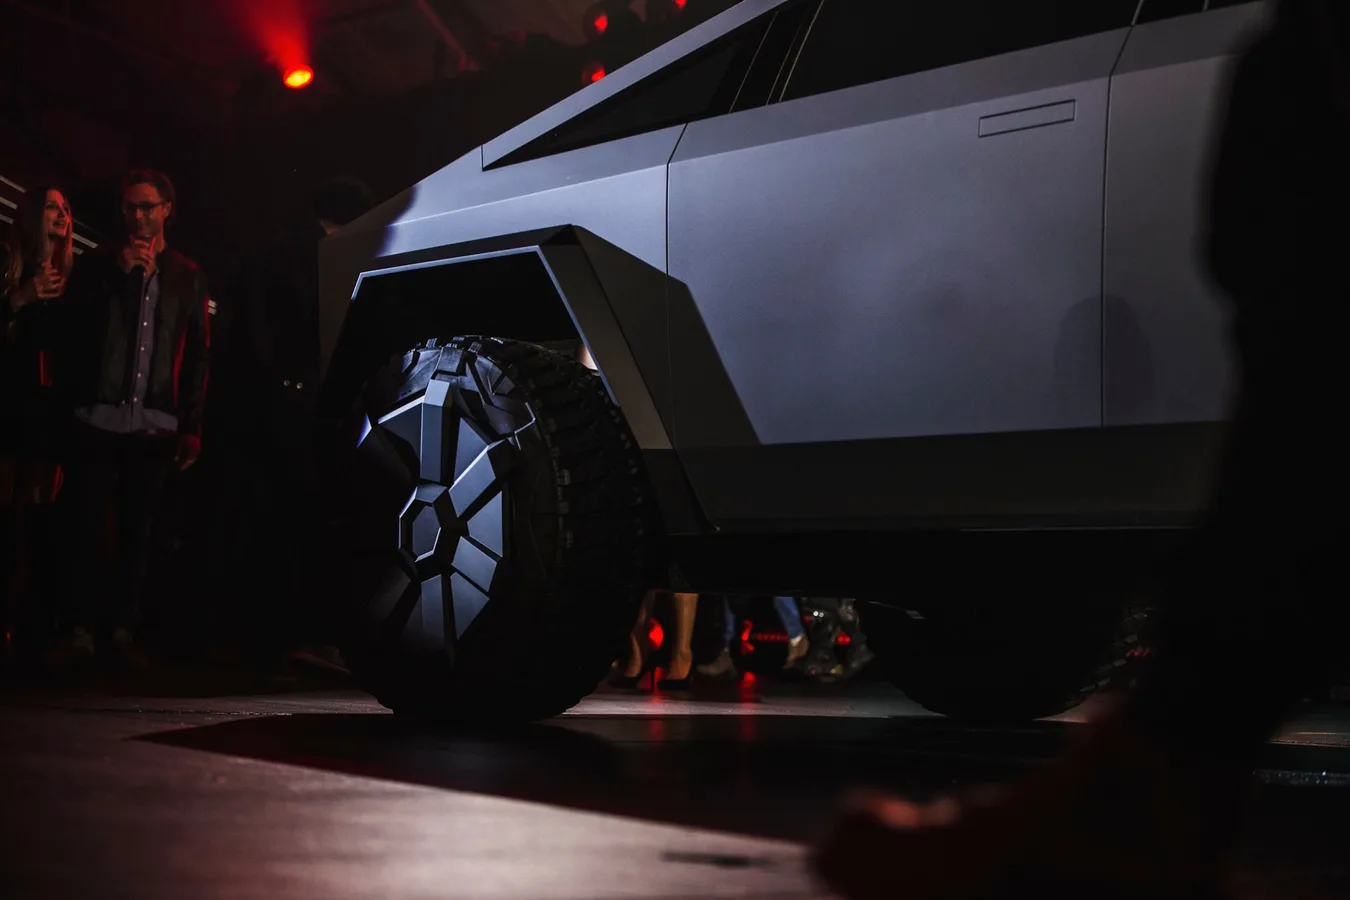
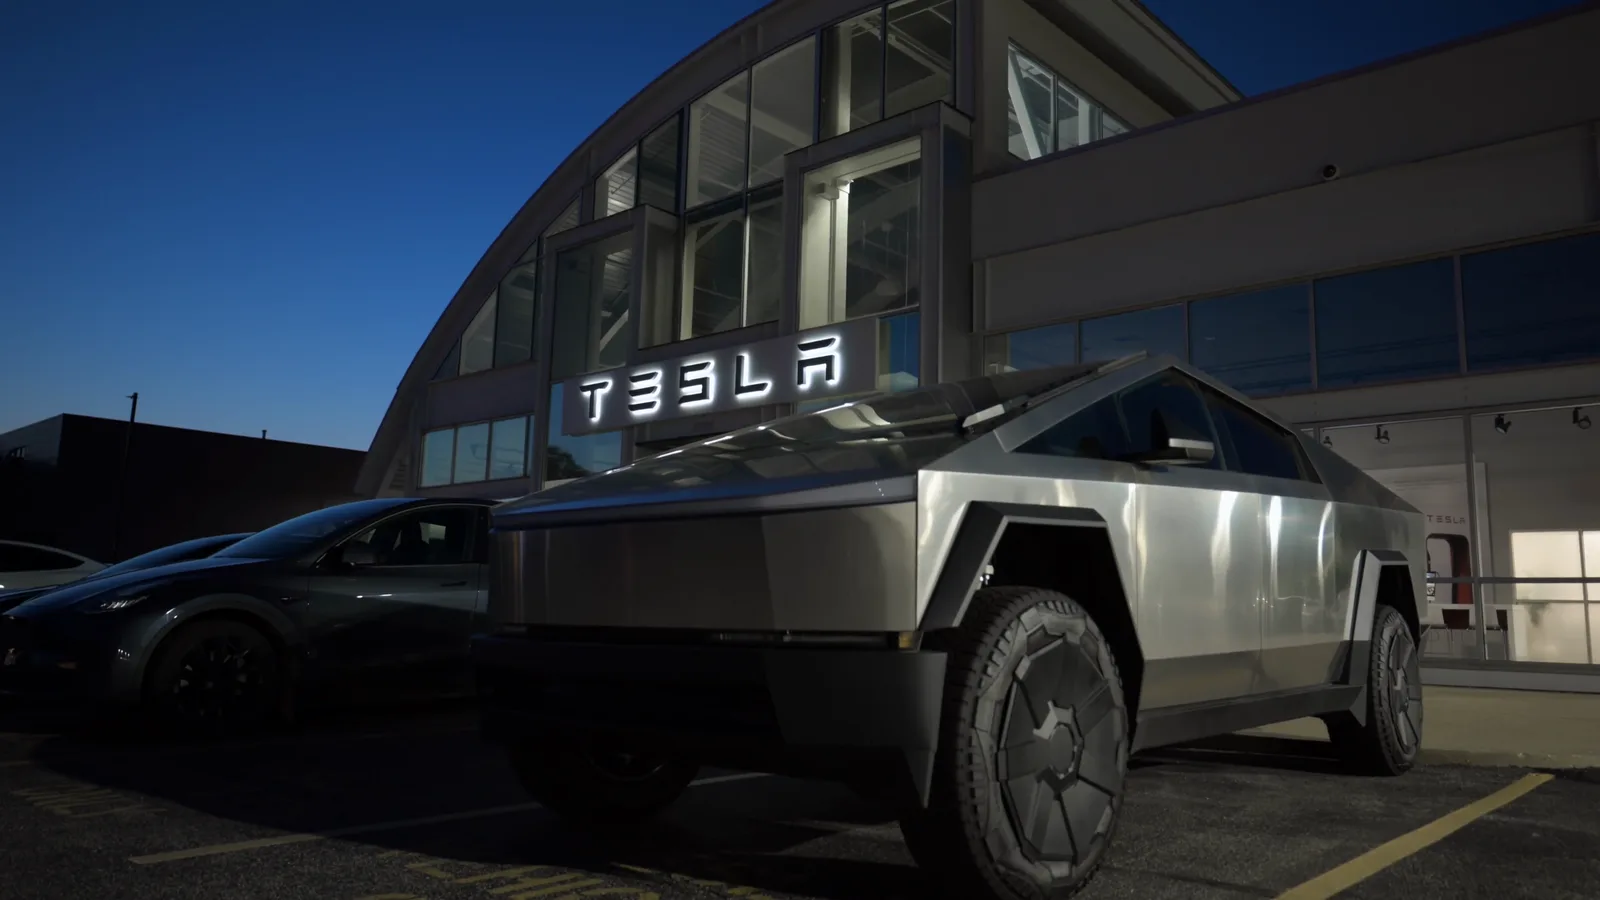
Add per-model hero videos for Tesla and Toyota/Ford hubs.
Convert user-provided 4K stock footage to lean VP9/H.264 loops with poster fallbacks for Model Y, Model 3, Cybertruck (knowledge figure), 4Runner, and Bronco. Wire a per-model video override map into the model hub hero and knowledge overview with reduced-motion poster fallback, relocate displaced 4Runner/Bronco hero photos into the body, and replace wrong Tesla card images with real frames plus honest CSV attribution.

diff --git a/lib/photos.ts b/lib/photos.ts
@@ -71,6 +71,61 @@ export const CHECK_ENGINE_HERO_VIDEO = {
   posterJpg: '/videos/check-engine-hero-poster.jpg',
 } as const;
 
+/** Shared shape for hero/figure video sources (poster stays LCP) */
+export type ModelVideoSources = {
+  webm: string;
+  mp4: string;
+  poster: string;
+  posterJpg: string;
+};
+
+/**
+ * Per-model hub hero video overrides, keyed by `${makeSlug}/${modelSlug}`.
+ * Mirrors the service heroVideo pattern — models not listed keep their photo hero.
+ */
+export const MODEL_HERO_VIDEOS: Record<string, ModelVideoSources> = {
+  'tesla/model-y': {
+    webm: '/videos/model-y-hero.webm',
+    mp4: '/videos/model-y-hero.mp4',
+    poster: '/videos/model-y-hero-poster.webp',
+    posterJpg: '/videos/model-y-hero-poster.jpg',
+  },
+  'tesla/model-3': {
+    webm: '/videos/model-3-hero.webm',
+    mp4: '/videos/model-3-hero.mp4',
+    poster: '/videos/model-3-hero-poster.webp',
+    posterJpg: '/videos/model-3-hero-poster.jpg',
+  },
+  'toyota/4runner': {
+    webm: '/videos/4runner-hero.webm',
+    mp4: '/videos/4runner-hero.mp4',
+    poster: '/videos/4runner-hero-poster.webp',
+    posterJpg: '/videos/4runner-hero-poster.jpg',
+  },
+  'ford/bronco': {
+    webm: '/videos/bronco-hero.webm',
+    mp4: '/videos/bronco-hero.mp4',
+    poster: '/videos/bronco-hero-poster.webp',
+    posterJpg: '/videos/bronco-hero-poster.jpg',
+  },
+};
+
+/** Per-model knowledge-overview figure video overrides, keyed by `${makeSlug}/${modelSlug}` */
+export const MODEL_KNOWLEDGE_VIDEOS: Record<string, ModelVideoSources> = {
+  'tesla/cybertruck': {
+    webm: '/videos/cybertruck-hero.webm',
+    mp4: '/videos/cybertruck-hero.mp4',
+    poster: '/videos/cybertruck-hero-poster.webp',
+    posterJpg: '/videos/cybertruck-hero-poster.jpg',
+  },
+};
+
+/**
+ * Models whose hero video displaced a photo the page should keep —
+ * the former hero photo relocates to the services section figure.
+ */
+export const MODEL_HERO_PHOTO_RELOCATED = new Set(['toyota/4runner', 'ford/bronco']);
+
 /** Full-bleed hero backgrounds — cap decoded width at 1920px for next/image */
 export const HERO_IMAGE_SIZES =
   '(max-width: 640px) 100vw, (max-width: 1200px) 100vw, 1920px';

diff --git a/app/components/ui/vehicles/ModelHubContent.tsx b/app/components/ui/vehicles/ModelHubContent.tsx
@@ -1,6 +1,7 @@
 'use client';
 
 import Link from 'next/link';
+import Image from 'next/image';
 import PhoneLink from '@/app/components/ui/PhoneLink';
 import PageHero from '@/app/components/ui/PageHero';
 import FadeIn from '@/app/components/ui/FadeIn';
@@ -15,6 +16,7 @@ import {
 } from '@/lib/i18n/vehicleCopy';
 import { localizeReliabilitySnapshot } from '@/lib/i18n/reliabilitySnapshotsEs';
 import type { ModelReliabilitySnapshot } from '@/lib/modelReliabilityNotes';
+import type { ModelVideoSources } from '@/lib/photos';
 import type { VehicleModel } from '@/lib/vehicleModels';
 
 type ModelHubContentProps = {
@@ -24,6 +26,10 @@ type ModelHubContentProps = {
   siblingModels: VehicleModel[];
   modelSnapshot: ModelReliabilitySnapshot | null;
   heroDescription: string;
+  /** Optional per-model hero video override — poster stays LCP; reduced motion keeps poster */
+  heroVideo?: ModelVideoSources | null;
+  /** Former hero photo, relocated below when a video takes over the hero */
+  relocatedHeroImage?: string | null;
 };
 
 export default function ModelHubContent({
@@ -33,6 +39,8 @@ export default function ModelHubContent({
   siblingModels,
   modelSnapshot,
   heroDescription,
+  heroVideo = null,
+  relocatedHeroImage = null,
 }: ModelHubContentProps) {
   const { lang } = useLanguage();
   const copy = vehicleCopy(lang).hub;
@@ -45,6 +53,10 @@ export default function ModelHubContent({
   const resolvedHero =
     snapshot?.intro ??
     localizedVehicleDescription(vehicle.brandName, vehicle.model, vLabel, lang, heroDescription);
+  const heroImageAlt =
+    lang === 'es'
+      ? `Servicio ${vehicle.brandName} ${vehicle.model} en RKC Automotive Englewood CO`
+      : `${vehicle.brandName} ${vehicle.model} service at RKC Automotive Englewood CO`;
 
   return (
     <div lang={lang}>
@@ -53,11 +65,8 @@ export default function ModelHubContent({
         title={copy.repairTitle(vehicle.brandName, vehicle.model)}
         description={resolvedHero}
         imageSrc={image}
-        imageAlt={
-          lang === 'es'
-            ? `Servicio ${vehicle.brandName} ${vehicle.model} en RKC Automotive Englewood CO`
-            : `${vehicle.brandName} ${vehicle.model} service at RKC Automotive Englewood CO`
-        }
+        imageAlt={heroImageAlt}
+        video={heroVideo ?? undefined}
         breadcrumbs={[
           { label: copy.home, href: '/' },
           { label: copy.vehiclesCrumb, href: '/vehicles-we-service' },
@@ -102,6 +111,22 @@ export default function ModelHubContent({
               </li>
             ))}
           </ul>
+
+          {relocatedHeroImage ? (
+            <FadeIn className="mt-10">
+              <figure className="overflow-hidden rounded-2xl border border-[color:var(--line)] bg-[color:var(--accent-gray-light)]">
+                <div className="relative aspect-[16/9] w-full max-w-3xl">
+                  <Image
+                    src={relocatedHeroImage}
+                    alt={heroImageAlt}
+                    fill
+                    className="object-cover"
+                    sizes="(max-width: 768px) 100vw, 768px"
+                  />
+                </div>
+              </figure>
+            </FadeIn>
+          ) : null}
 
           <div className="mt-10 flex flex-wrap gap-3">
             <PhoneLink className="btn-green">{copy.call(BUSINESS.phone)}</PhoneLink>

diff --git a/app/components/ui/vehicles/ModelKnowledgeOverview.tsx b/app/components/ui/vehicles/ModelKnowledgeOverview.tsx
@@ -4,7 +4,9 @@ import Image from 'next/image';
 import FadeIn from '@/app/components/ui/FadeIn';
 import { useLanguage } from '@/lib/language';
 import { knowledgeCopy } from '@/lib/i18n/knowledgeCopy';
+import { usePrefersReducedMotion } from '@/lib/usePrefersReducedMotion';
 import OemSpecValue from '@/app/components/ui/vehicles/OemSpecValue';
+import type { ModelVideoSources } from '@/lib/photos';
 import type {
   DataSource,
   ModelKnowledgeOverview as ModelKnowledgeOverviewData,
@@ -19,6 +21,8 @@ type ModelKnowledgeOverviewProps = {
   imageSrc?: string;
   imageAlt?: string;
   imageSourceLabel?: string;
+  /** Optional looping video for the figure — poster stays LCP; reduced motion keeps poster */
+  video?: ModelVideoSources | null;
 };
 
 type SectionLayout = 'identity' | 'prose' | 'observations' | 'spec-grid';
@@ -291,11 +295,15 @@ export default function ModelKnowledgeOverview({
   imageSrc,
   imageAlt,
   imageSourceLabel,
+  video = null,
 }: ModelKnowledgeOverviewProps) {
   const { lang } = useLanguage();
   const copy = knowledgeCopy(lang);
+  const reduceMotion = usePrefersReducedMotion();
   const resolvedAlt =
     imageAlt ?? `${brandName} ${modelName} service at RKC Automotive Englewood CO`;
+  const figureSrc = video?.poster ?? imageSrc;
+  const showVideo = Boolean(video) && !reduceMotion;
 
   const displaySections = buildDisplaySections(overview);
   const pageSources = collectUniqueSources(displaySections);
@@ -322,17 +330,31 @@ export default function ModelKnowledgeOverview({
           ) : null}
         </FadeIn>
 
-        {imageSrc ? (
+        {figureSrc ? (
           <FadeIn className="mt-8 sm:mt-10">
             <figure className="overflow-hidden rounded-2xl border border-[color:var(--line)] bg-[color:var(--accent-gray-light)]">
               <div className="relative aspect-[16/9] w-full max-w-3xl">
                 <Image
-                  src={imageSrc}
+                  src={figureSrc}
                   alt={resolvedAlt}
                   fill
                   className="object-cover"
                   sizes="(max-width: 768px) 100vw, 768px"
                 />
+                {showVideo && video ? (
+                  <video
+                    className="absolute inset-0 size-full object-cover"
+                    autoPlay
+                    muted
+                    loop
+                    playsInline
+                    preload="metadata"
+                    aria-hidden
+                  >
+                    <source src={video.webm} type="video/webm" />
+                    <source src={video.mp4} type="video/mp4" />
+                  </video>
+                ) : null}
               </div>
               {imageSourceLabel ? (
                 <figcaption className="border-t border-[color:var(--line)] px-4 py-2 text-xs text-ink-muted">

diff --git a/app/vehicles/[make]/[model]/page.tsx b/app/vehicles/[make]/[model]/page.tsx
@@ -6,6 +6,11 @@ import { getModelKnowledgeOverview } from '@/lib/knowledge';
 import { buildModelHubPath, getAllModelHubParams } from '@/lib/modelHubRoutes';
 import { getModelReliabilitySnapshot } from '@/lib/modelReliabilityNotes';
 import { createPageMetadata } from '@/lib/og';
+import {
+  MODEL_HERO_PHOTO_RELOCATED,
+  MODEL_HERO_VIDEOS,
+  MODEL_KNOWLEDGE_VIDEOS,
+} from '@/lib/photos';
 import { createBreadcrumbSchema, createItemListSchema, createWebPageSchema } from '@/lib/seo';
 import { getModelsByBrand, resolveModelImageForHub } from '@/lib/vehicleModels';
 import { getVehicleImage, resolveVehicleImageAlt } from '@/lib/vehicleImages';
@@ -58,6 +63,11 @@ export default async function VehicleModelHubPage({ params }: PageProps) {
   const brand = getBrandBySlug(make);
   const hubPath = buildModelHubPath(make, vehicle.model);
   const image = resolveModelImageForHub(vehicle);
+  const modelKey = `${make}/${model}`;
+  const heroVideo = MODEL_HERO_VIDEOS[modelKey] ?? null;
+  const knowledgeVideo = MODEL_KNOWLEDGE_VIDEOS[modelKey] ?? null;
+  const relocatedHeroImage =
+    heroVideo && MODEL_HERO_PHOTO_RELOCATED.has(modelKey) ? image : null;
   const siblingModels = getModelsByBrand(make).filter((m) => m.slug !== vehicle.slug);
   const modelSnapshot = getModelReliabilitySnapshot(make, model);
   const heroDescription = modelSnapshot?.intro ?? vehicle.description;
@@ -70,7 +80,7 @@ export default async function VehicleModelHubPage({ params }: PageProps) {
     vehicle.model,
   );
   const knowledgeImageSource =
-    vehicleImage.record?.sourceUrl && vehicleImage.matchType === 'exact'
+    vehicleImage.record?.sourceUrl?.includes('wikimedia.org') && vehicleImage.matchType === 'exact'
       ? 'Vehicle image catalog (Wikimedia Commons, CC BY-SA where noted)'
       : vehicleImage.matchType === 'make'
         ? `Representative ${vehicle.brandName} image — exact ${vehicle.model} photo pending catalog`
@@ -109,6 +119,8 @@ export default async function VehicleModelHubPage({ params }: PageProps) {
         siblingModels={siblingModels}
         modelSnapshot={modelSnapshot ?? null}
         heroDescription={heroDescription}
+        heroVideo={heroVideo}
+        relocatedHeroImage={relocatedHeroImage}
       />
 
       {knowledgeOverview?.isPilot ? (
@@ -119,6 +131,7 @@ export default async function VehicleModelHubPage({ params }: PageProps) {
           imageSrc={knowledgeImageSrc}
           imageAlt={knowledgeImageAlt}
           imageSourceLabel={knowledgeImageSource}
+          video={knowledgeVideo}
         />
       ) : null}
     </div>

diff --git a/lib/vehicleImages.ts b/lib/vehicleImages.ts
@@ -1353,10 +1353,10 @@ export const VEHICLE_IMAGE_DATA: VehicleImageRecord[] = [
     modelSlug: 'model-3',
     yearRange: '2017–2026',
     imagePath: '/vehicles/tesla/model-3.webp',
-    sourceUrl: 'https://upload.wikimedia.org/wikipedia/commons/3/3c/2019_Tesla_Model_3_Long_Range_Dual_Motor_in_Red_Multi-Coat%2C_front_left%2C_2021-05-30.jpg',
+    sourceUrl: 'User-provided stock video frame (Storyblocks SBV-324626396)',
     alt: 'Tesla Model 3 high-voltage drivetrain service in Englewood CO',
     fallbackNeeded: false,
-    license: 'CC BY-SA 4.0',
+    license: 'Licensed stock footage (user-provided)',
     quality: 9,
   },
   {
@@ -1366,10 +1366,10 @@ export const VEHICLE_IMAGE_DATA: VehicleImageRecord[] = [
     modelSlug: 'model-y',
     yearRange: '2020–2026',
     imagePath: '/vehicles/tesla/model-y.webp',
-    sourceUrl: 'https://upload.wikimedia.org/wikipedia/commons/a/a4/2022_Tesla_Model_Y.jpg',
+    sourceUrl: 'User-provided stock video frame (Storyblocks SBV-353294714)',
     alt: 'Tesla Model Y factory maintenance service near Denver CO',
     fallbackNeeded: false,
-    license: 'CC BY-SA 4.0',
+    license: 'Licensed stock footage (user-provided)',
     quality: 9,
   },
   {
@@ -2601,10 +2601,10 @@ export const VEHICLE_IMAGE_DATA: VehicleImageRecord[] = [
     modelSlug: 'cybertruck',
     yearRange: '2024–2026',
     imagePath: '/vehicles/tesla/cybertruck.webp',
-    sourceUrl: 'https://upload.wikimedia.org/wikipedia/commons/f/f2/20191121-tesla-cybertruck-front-left-wheel.jpg',
+    sourceUrl: 'User-provided stock video frame (Storyblocks SBV-352865127)',
     alt: 'Tesla Cybertruck electric truck service in Englewood CO',
     fallbackNeeded: false,
-    license: 'CC BY-SA 4.0',
+    license: 'Licensed stock footage (user-provided)',
     quality: 8.5,
   }
 ];